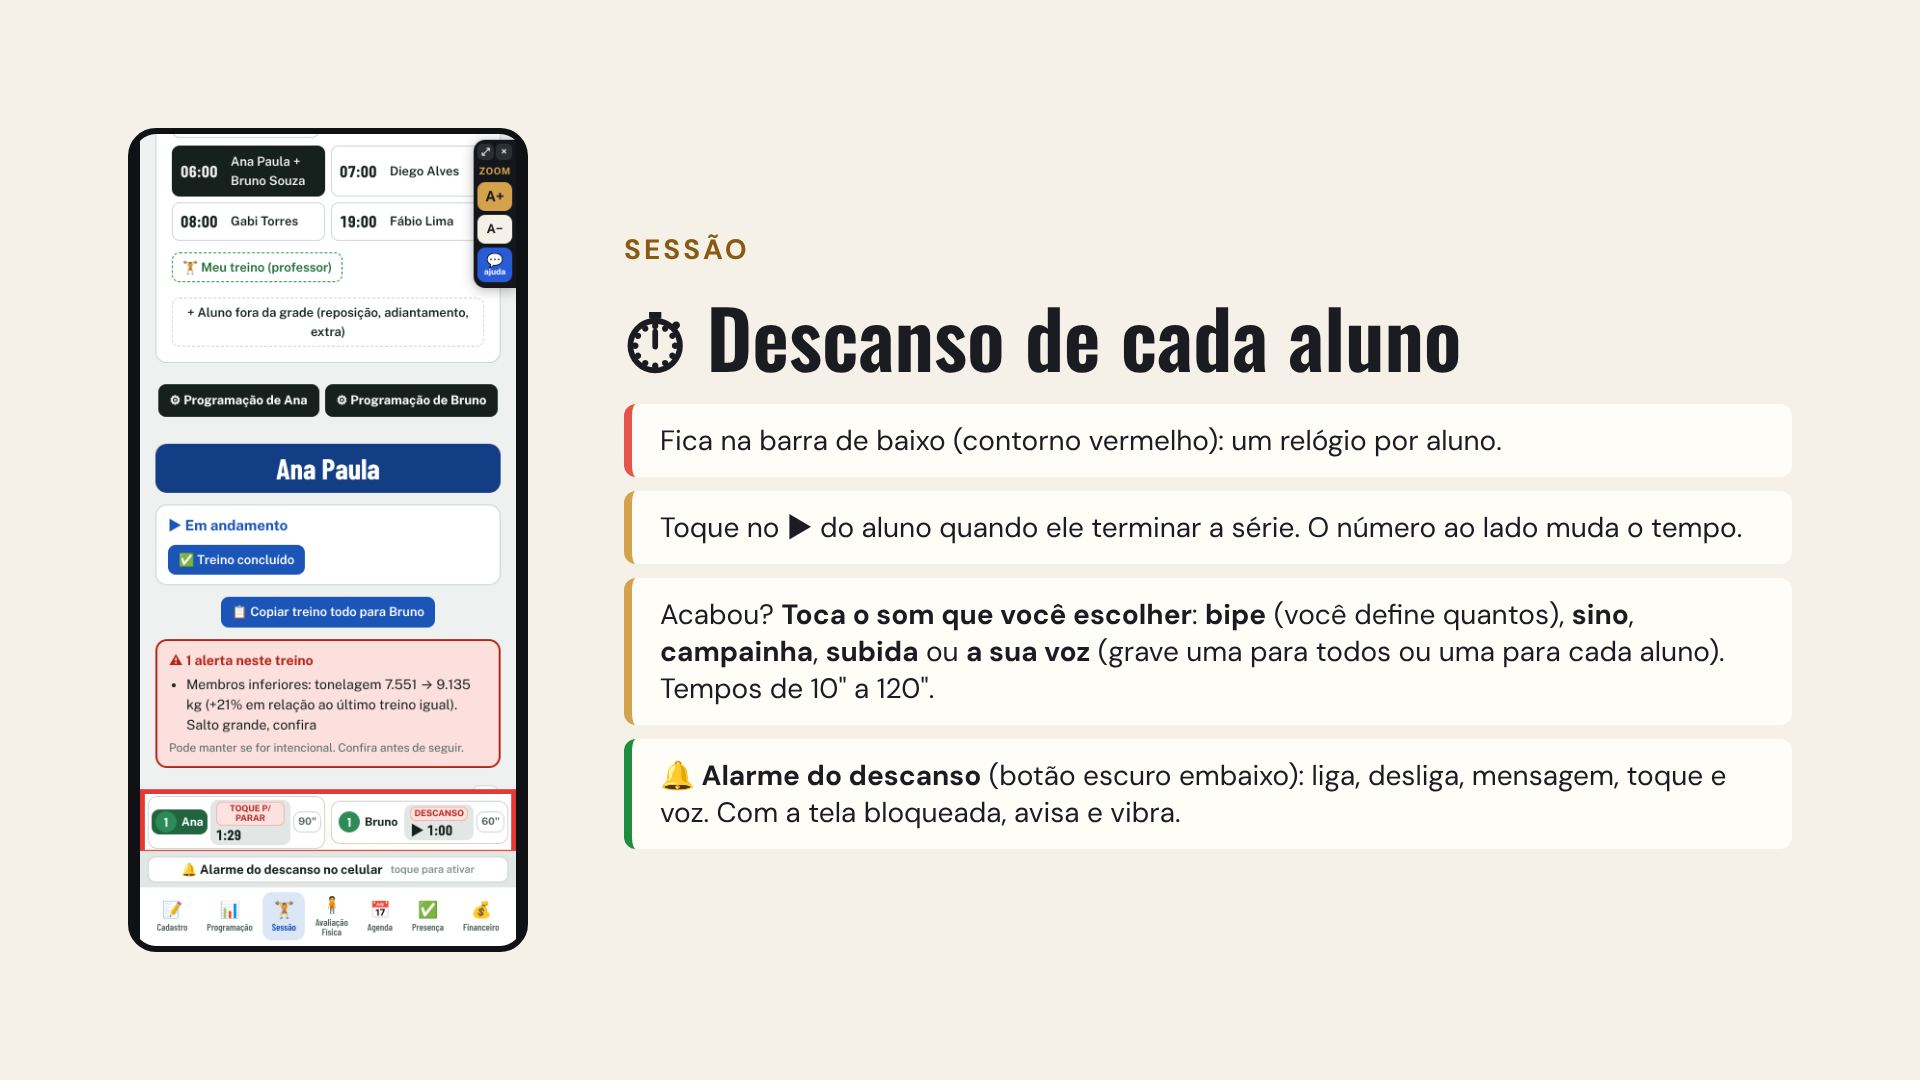
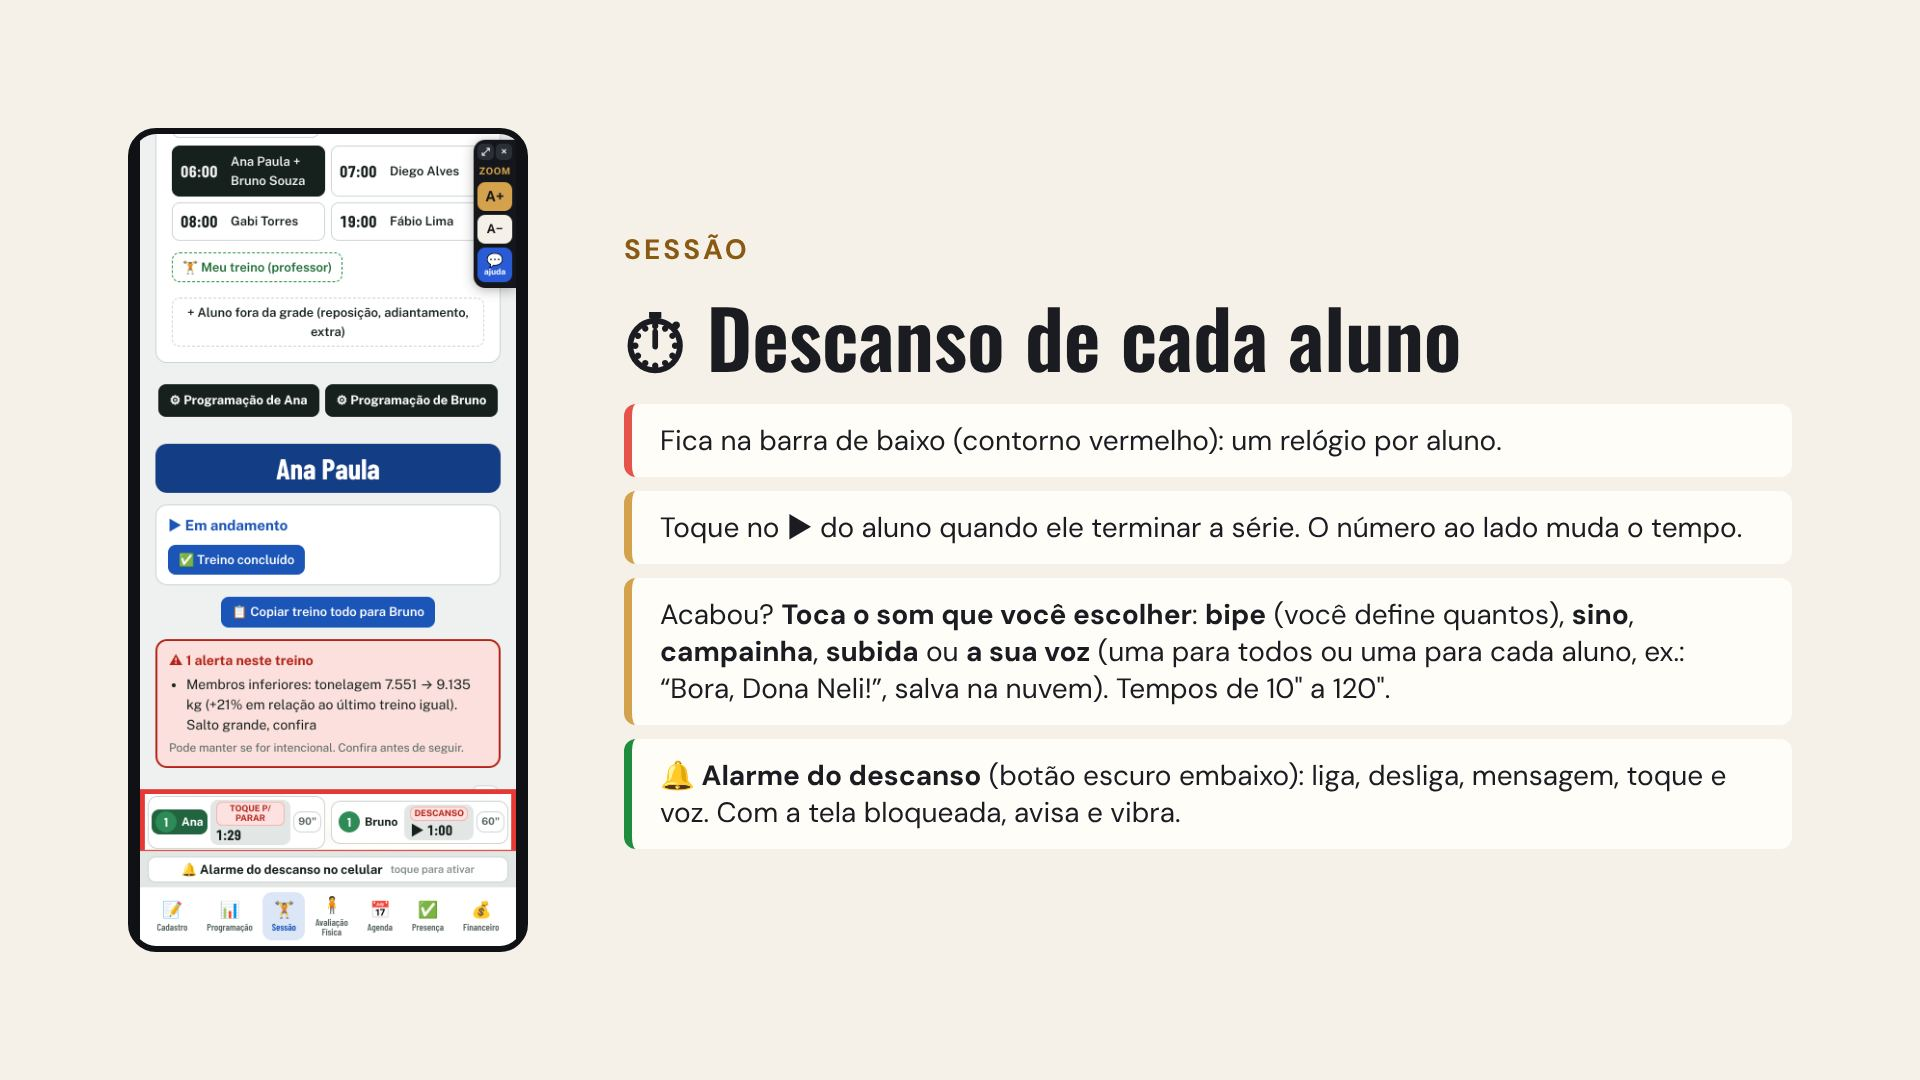
Alarme: voz de cada aluno salva na nuvem (abre em qualquer aparelho) e lista de vozes gravadas; slide atualizado
Claude-Session: https://claude.ai/code/session_01ExiWmKxJX9TgZX8HbSZjPY

Changed region(s): [[0.3438, 0.5806, 0.9062, 0.6722]]

diff --git a/index.html b/index.html
@@ -1,4 +1,4 @@
-<!doctype html><html><head><meta charset=utf8><link rel="manifest" href="manifest.webmanifest"><meta name="theme-color" content="#0f1115"><link rel="icon" href="icon-192.png"><link rel="apple-touch-icon" href="icon-192.png"><meta name="apple-mobile-web-app-capable" content="yes"><meta name="mobile-web-app-capable" content="yes"><meta name="apple-mobile-web-app-title" content="Rotina do Personal"><meta name=viewport content="width=device-width,initial-scale=1,viewport-fit=cover"><style>:root{color-scheme:light;box-sizing:border-box;padding-top:env(safe-area-inset-top,0px);padding-bottom:env(safe-area-inset-bottom,0px)}html{scroll-padding-top:env(safe-area-inset-top,0px)}body{margin:0;padding:0;font:14px -apple-system,BlinkMacSystemFont,sans-serif;background:#faf9f5;color:#141413}img{max-width:100%}[hidden]:not([hidden=until-found i]){display:none!important}</style><script>window.RP_BUILD="1793008453";
+<!doctype html><html><head><meta charset=utf8><link rel="manifest" href="manifest.webmanifest"><meta name="theme-color" content="#0f1115"><link rel="icon" href="icon-192.png"><link rel="apple-touch-icon" href="icon-192.png"><meta name="apple-mobile-web-app-capable" content="yes"><meta name="mobile-web-app-capable" content="yes"><meta name="apple-mobile-web-app-title" content="Rotina do Personal"><meta name=viewport content="width=device-width,initial-scale=1,viewport-fit=cover"><style>:root{color-scheme:light;box-sizing:border-box;padding-top:env(safe-area-inset-top,0px);padding-bottom:env(safe-area-inset-bottom,0px)}html{scroll-padding-top:env(safe-area-inset-top,0px)}body{margin:0;padding:0;font:14px -apple-system,BlinkMacSystemFont,sans-serif;background:#faf9f5;color:#141413}img{max-width:100%}[hidden]:not([hidden=until-found i]){display:none!important}</style><script>window.RP_BUILD="1793008769";
 (function(){ var K="rp_upd_try";
   var T0=Date.now(); function chk(){ try{ fetch(location.pathname+"?v="+Date.now(),{cache:"no-store"}).then(function(r){ return r.text(); }).then(function(t){ var m=t.match(/window\.RP_BUILD="(\d+)"/); if(!m||m[1]===window.RP_BUILD) return;
       var tried=sessionStorage.getItem(K); if(Date.now()-T0<15000&&tried!==m[1]){ sessionStorage.setItem(K,m[1]); go(m[1]); return; } showUpd(m[1]); }).catch(function(){}); }catch(e){} }
@@ -2356,6 +2356,7 @@ function docsOf(st){
   Object.keys(st.days||{}).forEach(wid=>Object.keys(st.days[wid]).forEach(sid=>{ const P=st.days[wid][sid]; const keep={}; Object.keys(P).forEach(dy=>{ if(dayHasData(P[dy])) keep[dy]=P[dy]; }); if(Object.keys(keep).length) out["ses-"+wid+"-"+sid]={days:clean(keep)}; }));
   st.plans.forEach(p=>out["plan-"+p.id]=clean(p));
   st.students.forEach(x=>out["log-"+x.id]={items:clean(x.log||[])});
+  try{ for(let i=0;i<localStorage.length;i++){ const k=localStorage.key(i); if(k&&k.startsWith("rp_aud_")){ const v=localStorage.getItem(k); if(v) out["aud-"+k.slice(7)]={v}; } } }catch(_){}
   return out;
 }
 function fromDocs(map){
@@ -2402,6 +2403,8 @@ function applyRemote(map){
   if(!next.students.some(x=>x.id===next.active)) next.active=next.students[0].id;
   if(S && S.active && next.students.some(x=>x.id===S.active)) next.active=S.active;
   S=next; Object.keys(map).forEach(k=>cloud.last[k]=stable(map[k]));
+  try{ const has=new Set(Object.keys(map).filter(k=>k.startsWith("aud-"))); has.forEach(k=>{ const v=map[k]&&map[k].v; if(v) localStorage.setItem("rp_aud_"+k.slice(4),v); });
+    for(let i=localStorage.length-1;i>=0;i--){ const k=localStorage.key(i); if(k&&k.startsWith("rp_aud_")&&!has.has("aud-"+k.slice(7))&&map.meta) localStorage.removeItem(k); } }catch(_){}
   try{ localStorage.setItem(KEY,JSON.stringify(S)); }catch(e){}
   renderAll(); if(!document.getElementById("people").hidden) renderPeople();
 }
@@ -3522,7 +3525,7 @@ const FIRED={};
 /* Voz no fim do descanso: gravada aqui, guardada neste aparelho (geral ou de cada aluno) */
 const almOff=()=>!!(S.brand||{}).alarmOff;
 function audGet(id){ try{ return localStorage.getItem("rp_aud_"+(id||"geral"))||""; }catch(_){ return ""; } }
-function audSet(id,v){ try{ if(v) localStorage.setItem("rp_aud_"+(id||"geral"),v); else localStorage.removeItem("rp_aud_"+(id||"geral")); return true; }catch(_){ toast("Não coube na memória do aparelho. Grave mais curto."); return false; } }
+function audSet(id,v){ try{ if(v) localStorage.setItem("rp_aud_"+(id||"geral"),v); else localStorage.removeItem("rp_aud_"+(id||"geral")); try{ queueCloud(); }catch(_){} return true; }catch(_){ toast("Não coube na memória do aparelho. Grave mais curto."); return false; } }
 async function audPlay(src){ AC=AC||new (window.AudioContext||window.webkitAudioContext)(); if(AC.state==="suspended") await AC.resume();
   const bin=atob(src.split(",")[1]), u=new Uint8Array(bin.length); for(let i=0;i<bin.length;i++) u[i]=bin.charCodeAt(i);
   const buf=await AC.decodeAudioData(u.buffer); const n=AC.createBufferSource(), g=AC.createGain(); g.gain.value=1.6; n.buffer=buf; n.connect(g); g.connect(AC.destination); n.start(); }
@@ -3570,8 +3573,8 @@ function ntfHTML(){ const sup="Notification" in window, st=sup? Notification.per
     ${sndSel()==="bip"?`<div class="ntfvr bipn"><span>Quantos bipes</span><button class="btn small" data-bipn="-1" aria-label="Menos">−</button><b class="num">${bipN()}</b><button class="btn small" data-bipn="1" aria-label="Mais">+</button><button class="btn small" data-sndtest>▶ Ouvir</button></div>`:sndSel()==="voz"?(audGet("")?"":`<small class="repwarn">Grave sua voz abaixo. Sem gravação, toca o bipe.</small>`):`<button class="btn small" data-sndtest>▶ Ouvir</button>`}
     <small class="muted">Toque numa opção para ouvir. Aluno com voz própria gravada sempre toca a voz dele.</small>
     <div class="ntfvr"><span>🎙 Sua voz (todos os alunos)${audGet("")?" ✓":""}</span><button class="btn small ${audGet("")?"":"primary"}" data-audrec="">${audGet("")?"Regravar":"🎙 Gravar minha voz"}</button>${audGet("")?`<button class="btn small" data-audplay="">▶ Ouvir</button><button class="btn small ghost" data-auddel="">Apagar</button>`:""}</div>
-    ${(()=>{ let M=[]; try{ M=sesMembers(); }catch(_){} return M.length? `<small class="muted">Voz de cada aluno (opcional), ex.: “Ana, bora para a próxima!”</small>`+M.map(m=>`<div class="ntfvr"><span>${esc(first(m.name))}${audGet(m.id)?" · 🎙":""}</span><button class="btn small" data-audrec="${m.id}">${audGet(m.id)?"Regravar":"🎙 Gravar"}</button>${audGet(m.id)?`<button class="btn small" data-audplay="${m.id}">▶</button><button class="btn small ghost" data-auddel="${m.id}">×</button>`:""}</div>`).join("") : ""; })()}
-    <small class="muted">Até 6 segundos. Fica salva neste aparelho. Com a tela bloqueada, o celular toca o som de notificação dele.</small></div>
+    ${(()=>{ let M=[]; try{ M=sesMembers(); }catch(_){} const L2=M.concat(S.students.filter(x=>!M.includes(x)&&audGet(x.id))); return L2.length? `<small class="muted">Voz de cada aluno (opcional), ex.: “Dona Neli, bora!”. Grave na aula dele: fica salva só para ele.</small>`+L2.map(m=>`<div class="ntfvr"><span>${esc(first(m.name))}${audGet(m.id)?" · 🎙 ✓":""}</span><button class="btn small" data-audrec="${m.id}">${audGet(m.id)?"Regravar":"🎙 Gravar"}</button>${audGet(m.id)?`<button class="btn small" data-audplay="${m.id}">▶</button><button class="btn small ghost" data-auddel="${m.id}">×</button>`:""}</div>`).join("") : ""; })()}
+    <small class="muted">Até 6 segundos. Cada aluno fica com a voz dele, salva na nuvem: abre em qualquer aparelho seu. Com a tela bloqueada, o celular toca o som de notificação dele.</small></div>
   <button class="btn ${almOff()?"primary":"ghost"}" data-almtog>${almOff()?"🔔 Ligar o alarme do descanso":"🔕 Desligar o alarme do descanso"}</button>
   ${st==="granted"?`<button class="btn" data-ntftest>Testar agora (bloqueie a tela em 5 s)</button>`:""}
   <ol class="ntfl"><li>Toque em <b>Ativar</b> e escolha <b>Permitir</b>.</li>
